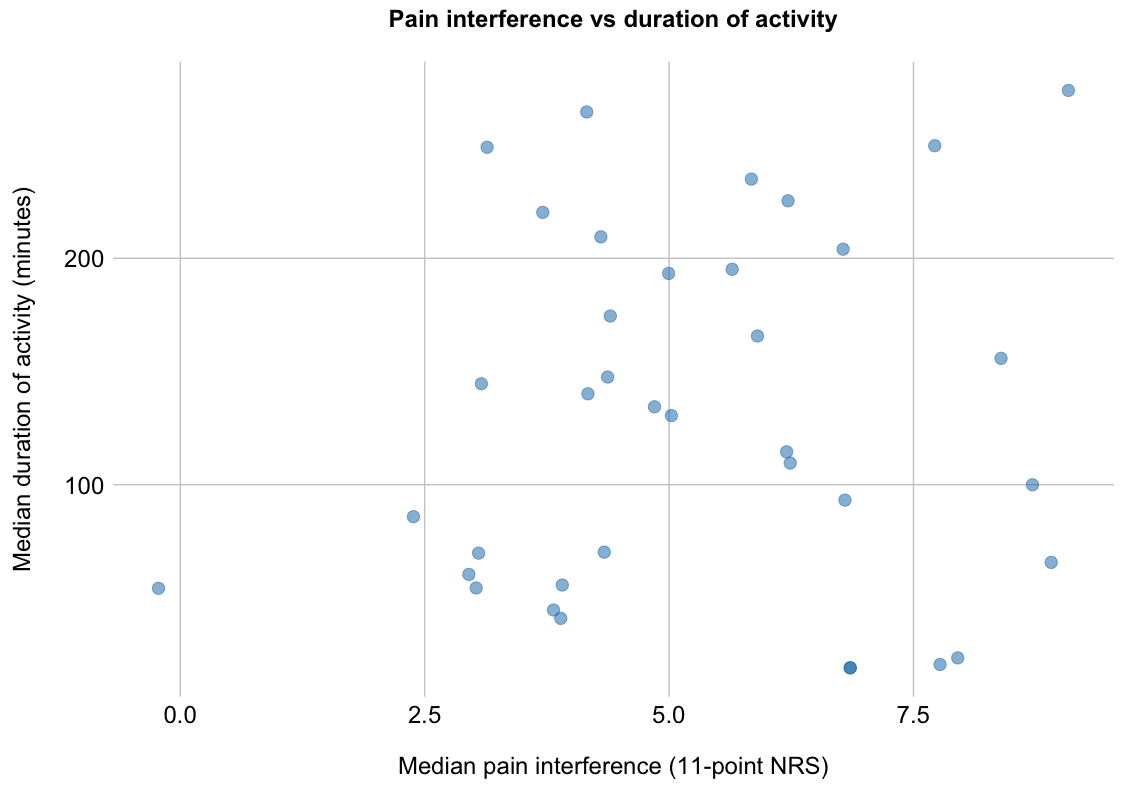
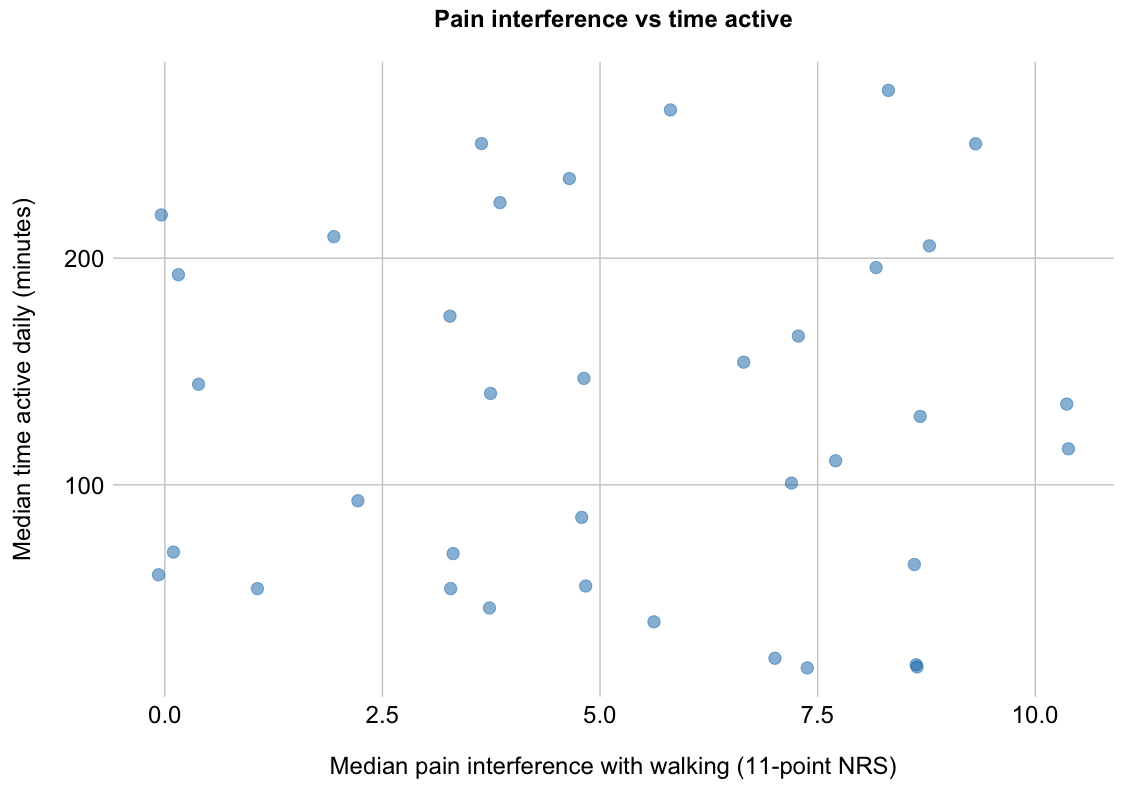
Changed BPI interference to walking only

diff --git a/SupplFigures/suppl.analysis.md b/SupplFigures/suppl.analysis.md
@@ -76,33 +76,33 @@ Process data
 
     ## Source: local data frame [6 x 6]
     ## 
-    ##      ID  Pain bpi_interference Median_activity_duration Median_activity
-    ##   (int) (chr)            (int)                    (dbl)           (int)
-    ## 1     9  Pain                6                    235.0               9
-    ## 2    21  Pain                4                    140.0               5
-    ## 3    23  Pain                8                    250.0               6
-    ## 4    40  Pain                7                     92.5              12
-    ## 5    67  Pain                3                     70.0               6
-    ## 6    69  Pain                4                    147.5               4
-    ## Variables not shown: eq5d_mobility (chr)
+    ##      ID  Pain bpi_walk_interference Median_activity_duration
+    ##   (int) (chr)                 (int)                    (dbl)
+    ## 1     9  Pain                     5                    235.0
+    ## 2    21  Pain                     4                    140.0
+    ## 3    23  Pain                     9                    250.0
+    ## 4    40  Pain                     2                     92.5
+    ## 5    67  Pain                     0                     70.0
+    ## 6    69  Pain                     5                    147.5
+    ## Variables not shown: Median_activity (int), eq5d_mobility (chr)
 
     ## Source: local data frame [6 x 6]
     ## 
-    ##      ID  Pain bpi_interference Median_activity_duration Median_activity
-    ##   (int) (chr)            (int)                    (dbl)           (int)
-    ## 1   161  Pain                4                       40               7
-    ## 2   163  Pain                6                      195               4
-    ## 3   164  Pain                8                       20               3
-    ## 4   165  Pain                6                      110               8
-    ## 5   167  Pain                4                      175               6
-    ## 6   168  Pain                5                      135               6
-    ## Variables not shown: eq5d_mobility (chr)
+    ##      ID  Pain bpi_walk_interference Median_activity_duration
+    ##   (int) (chr)                 (int)                    (dbl)
+    ## 1   161  Pain                     6                       40
+    ## 2   163  Pain                     8                      195
+    ## 3   164  Pain                     7                       20
+    ## 4   165  Pain                     8                      110
+    ## 5   167  Pain                     3                      175
+    ## 6   168  Pain                    10                      135
+    ## Variables not shown: Median_activity (int), eq5d_mobility (chr)
 
     ## Observations: 37
     ## Variables: 6
     ## $ ID                       (int) 9, 21, 23, 40, 67, 69, 71, 72, 73, 74...
     ## $ Pain                     (chr) "Pain", "Pain", "Pain", "Pain", "Pain...
-    ## $ bpi_interference         (int) 6, 4, 8, 7, 3, 4, 5, 8, 3, 4, 3, 2, 4...
+    ## $ bpi_walk_interference    (int) 5, 4, 9, 2, 0, 5, 0, 7, 0, 4, 5, 5, 2...
     ## $ Median_activity_duration (dbl) 235.0, 140.0, 250.0, 92.5, 70.0, 147....
     ## $ Median_activity          (int) 9, 5, 6, 12, 6, 4, 5, 6, 4, 3, 4, 4, ...
     ## $ eq5d_mobility            (chr) "I have no problems in walking about"...
@@ -112,39 +112,50 @@ Process data
 Analyses
 --------
 
-### Correlation between BPI interference and duration of activity
+### Correlation between BPI interference with walking and time active
 
-**(median daily duration of activity over the past week)** ![](./figures/BPIInterference.v.ActivityDuration-1.png)<!-- -->
+**(median time active daily over the past week)** ![](./figures/BPIInterference.v.ActivityDuration-1.png)<!-- -->
 
     ## 
     ##  Asymptotic Spearman Correlation Test
     ## 
-    ## data:  bpi_interference by Median_activity_duration
-    ## Z = 0.30772, p-value = 0.7583
+    ## data:  bpi_walk_interference by Median_activity_duration
+    ## Z = -0.25138, p-value = 0.8015
     ## alternative hypothesis: true rho is not equal to 0
 
-### EQ5D mobility rating vs duration of activity
+### Correlation between BPI interference with walking and intensity of activity
 
-**(median duration of activity over the past week)** ![](./figures/EQ5DMobility.v.ActivityDuration-1.png)<!-- -->
+**(median daily intensity of activity over the past week)** ![](./figures/BPIInterference.v.ActivityIntensity-1.png)<!-- -->
+
+    ## 
+    ##  Asymptotic Spearman Correlation Test
+    ## 
+    ## data:  bpi_walk_interference by Median_activity
+    ## Z = -0.42428, p-value = 0.6714
+    ## alternative hypothesis: true rho is not equal to 0
+
+### EQ5D mobility rating vs time active
+
+**(median time active daily over the past week)** ![](./figures/EQ5DMobility.v.ActivityDuration-1.png)<!-- -->
 
     ## 
     ##  Asymptotic Wilcoxon-Mann-Whitney Test
     ## 
     ## data:  Median_activity_duration by
-    ##   eq5d_mobility (I have no problems in walking about, I have some problems in walking about)
-    ## Z = 0.27857, p-value = 0.7806
+    ##   eq5d_mobility (I have no problems in walking about < I have some problems in walking about)
+    ## Z = -0.27857, p-value = 0.7806
     ## alternative hypothesis: true mu is not equal to 0
 
 ### EQ5D mobility rating vs intensity of activity
 
-**(median intenisty of activity over the past week)** ![](./figures/EQ5DMobility.v.ActivityIntensity-1.png)<!-- -->
+**(median daily intensity of activity over the past week)** ![](./figures/EQ5DMobility.v.ActivityIntensity-1.png)<!-- -->
 
     ## 
     ##  Asymptotic Wilcoxon-Mann-Whitney Test
     ## 
     ## data:  Median_activity by
-    ##   eq5d_mobility (I have no problems in walking about, I have some problems in walking about)
-    ## Z = 0.97505, p-value = 0.3295
+    ##   eq5d_mobility (I have no problems in walking about < I have some problems in walking about)
+    ## Z = -0.97505, p-value = 0.3295
     ## alternative hypothesis: true mu is not equal to 0
 
 Session information
